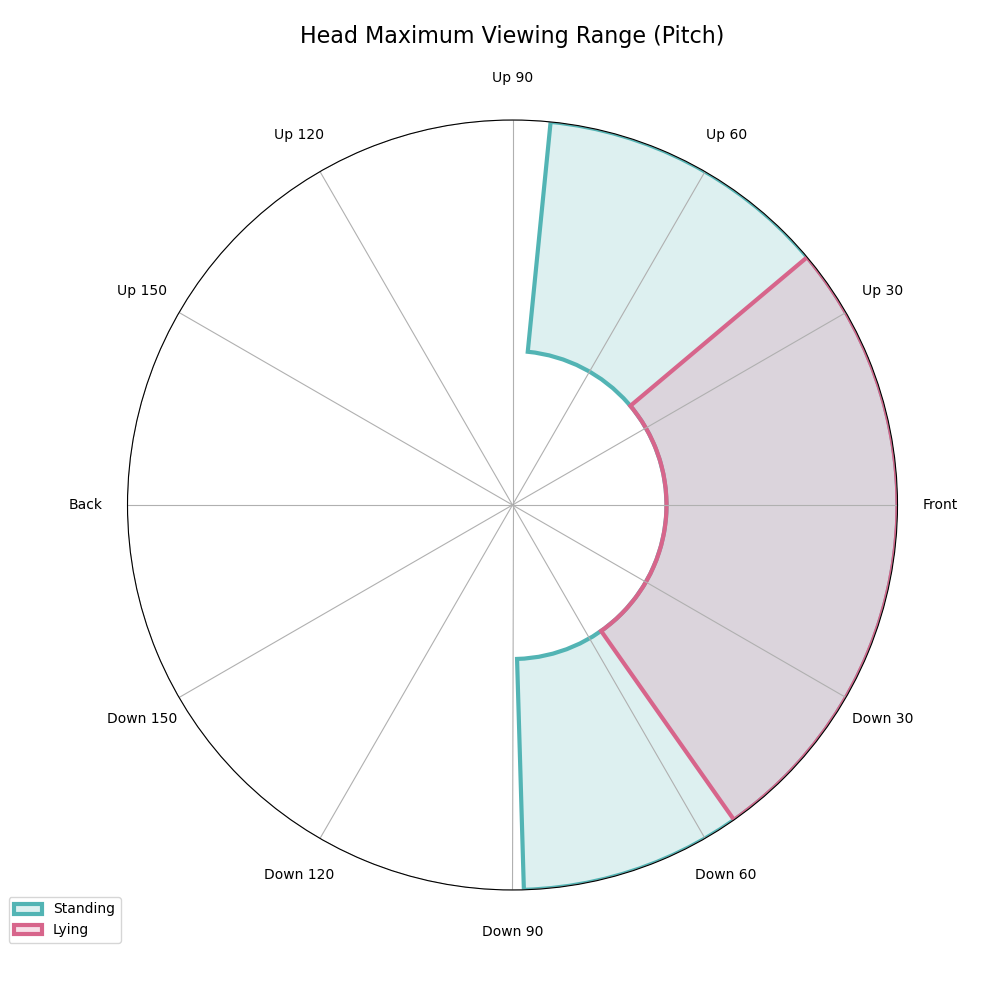
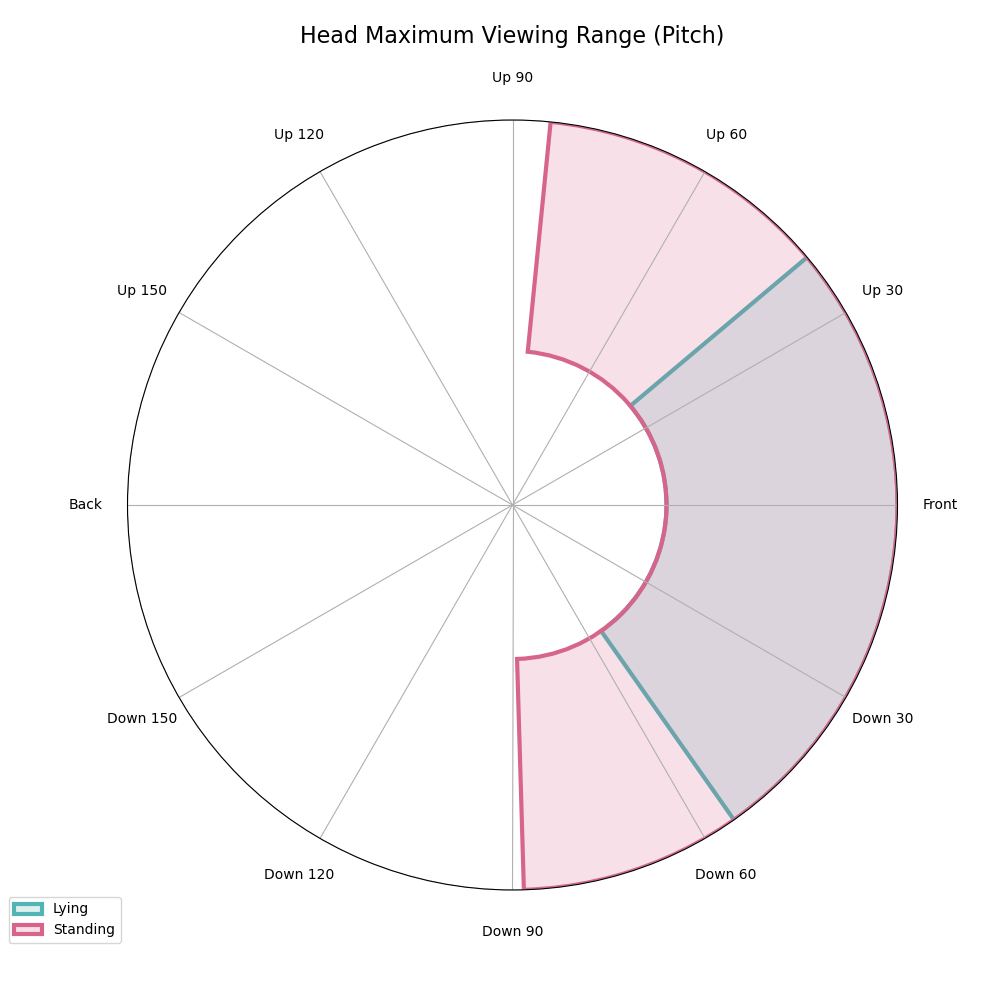
change standing lying color

Changed region(s): [[0.527, 0.124, 0.806, 0.403], [0.496, 0.62, 0.744, 0.899], [0.031, 0.899, 0.124, 0.961]]

diff --git a/Formative/T2_EffortBarChart.py b/Formative/T2_EffortBarChart.py
@@ -66,22 +66,22 @@ fig, ax = plt.subplots(figsize=(15, 10))
 
 # Draw
 fig, ax = plt.subplots(figsize=(15, 10))
-bars1 = ax.bar(
+ax.bar(
     x - width / 2,
-    data["Standing"],
-    width,
-    color=Colors[0][4],
-    label="Standing",
-    yerr=std_data["Standing"],
-    capsize=3,
-)
-bars2 = ax.bar(
-    x + width / 2,
     data["Lying"],
     width,
-    color=Colors[1][4],
+    color=Colors[0][4],
     label="Lying",
     yerr=std_data["Lying"],
+    capsize=3,
+)
+ax.bar(
+    x + width / 2,
+    data["Standing"],
+    width,
+    color=Colors[1][4],
+    label="Standing",
+    yerr=std_data["Standing"],
     capsize=3,
 )
 
@@ -95,7 +95,7 @@ ax.set_xticks(x)
 ax.set_xticklabels(Directions)
 ax.legend()
 
-plt.savefig(f"{RootDir}/Result Figure/T2_EffortScores.png", transparent=False)
+plt.savefig(f"{RootDir}/Result Figure/Formative T2 EffortScores.png", transparent=False)
 plt.close()
 
 

diff --git a/Formative/Constant.py b/Formative/Constant.py
@@ -1,7 +1,7 @@
 RootDir = "./Formative"
 
 Participants = list(range(1, 16 + 1))
-Postures = ["Standing", "Lying"]
+Postures = ["Lying", "Standing"]
 Directions_num = ["0", "45", "90", "135", "180", "225", "270", "315"]
 Directions = [
     "Right",
